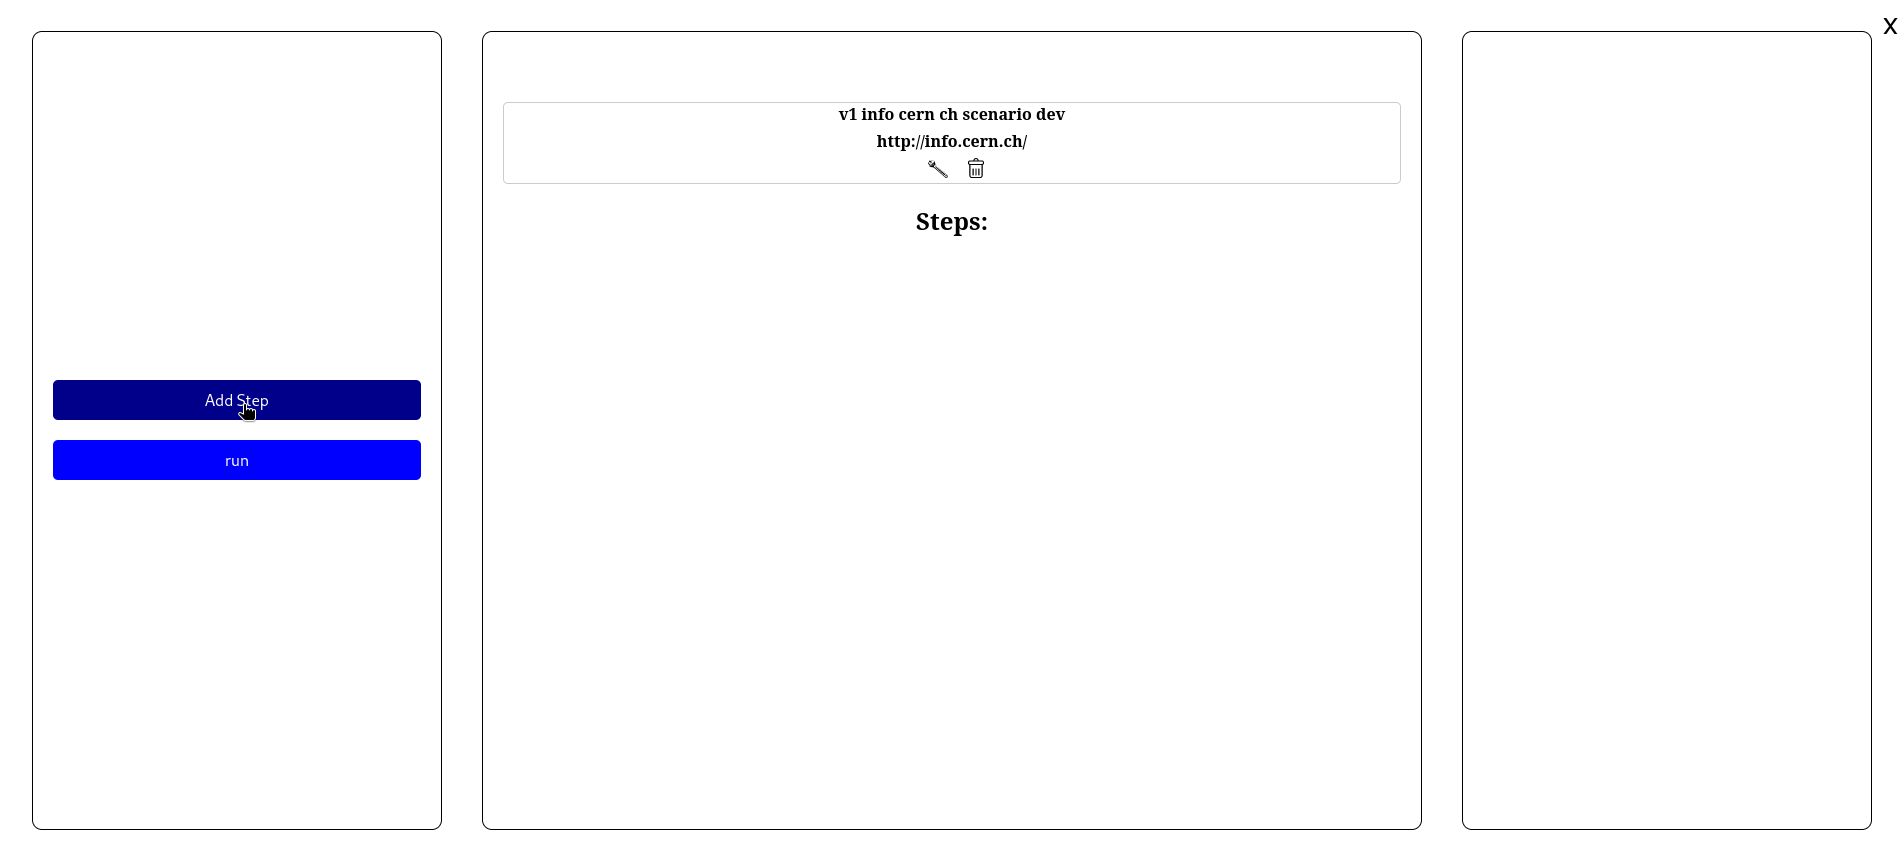
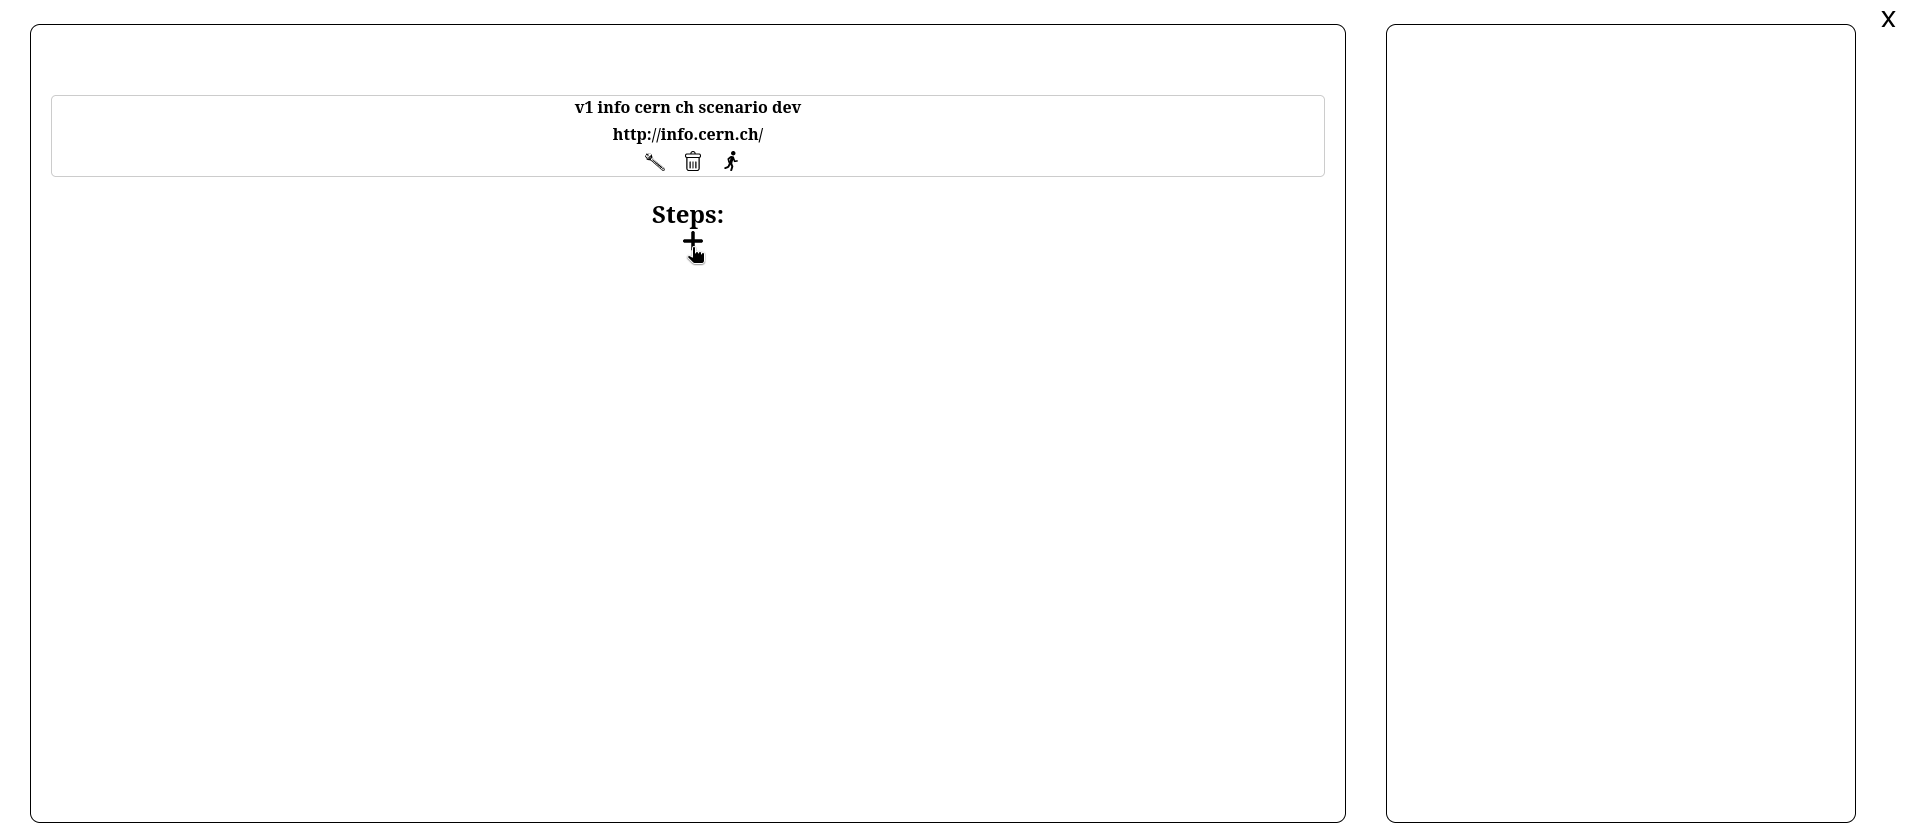
added documentation

diff --git a/src/components/sceens/page/documentation/ManagingScenario.jsx b/src/components/sceens/page/documentation/ManagingScenario.jsx
@@ -10,8 +10,7 @@ const ManagingScenario = () => {
                 <h3> Managing Scenario </h3>
             </div>
             <p>
-                On the left, you'll find the scenario control panel.
-                To add a new step, simply click the "Add Step" button:
+                To add a new step, click the "Plus" icon:
             </p>
             <div className={styles.img_container}>
                 <img src={addStep} className={styles.img}/>
@@ -22,7 +21,7 @@ const ManagingScenario = () => {
             </div>
             <p>
                 After clicking the "Submit" button, your step will be displayed in the scenario data block,
-                ready for use. Once you click the "Run" button,
+                ready for use. Once you click the "Run" icon,
                 the scenario will be executed by the server:
             </p>
             <div className={styles.img_container}>
